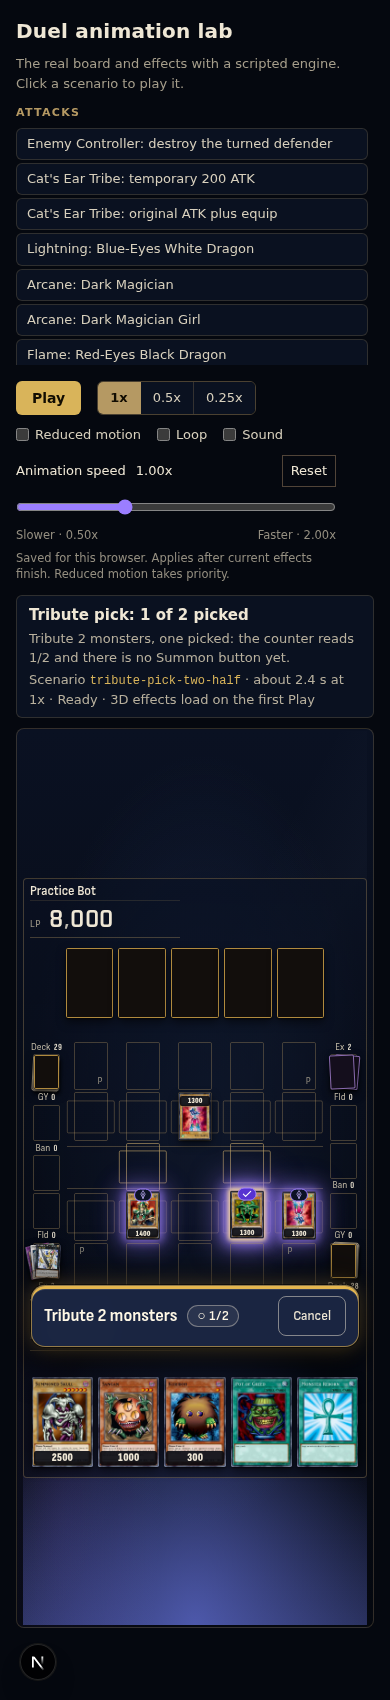
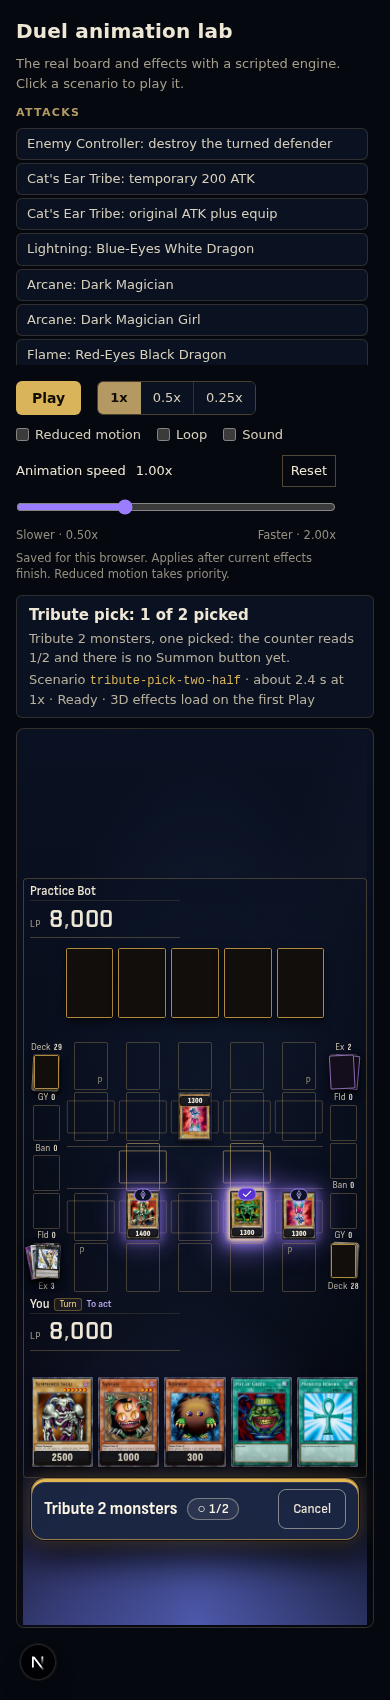
fix(web): keep the tribute dock off the seat plates and their turn clock

Changed region(s): [[0.0615, 0.8418, 0.9231, 0.9353], [0.0615, 0.6859, 0.9231, 0.8106]]

diff --git a/packages/web/src/components/duel/tribute-dock-place.ts b/packages/web/src/components/duel/tribute-dock-place.ts
@@ -3,10 +3,13 @@
  *
  * Tributes are picked on the field, so the instruction ("Tribute 1 monster · 0/1", Summon, Cancel) docks by your
  * hand instead of covering the board:
- *   side    there is room right of your hand: the dock sits there, its bottom level with the hand, against the board edge
+ *   side    there is room right of your hand: the dock sits there, its bottom level with the hand, against the board
+ *           edge, narrowed to stop short of any seat plate (a plate shows the turn clock, so it stays uncovered)
  *   above   no room beside the hand: the row above the hand, against the right edge
  *   center  the 2v2 Rooftop (`centered`), or no room beside a centred, wide hand: the row above, centred
- *   full    a phone: the full width of the board, in the row above the hand
+ *   full    a phone: the full width of the board, in the row above the hand; just under the hand when a plate is in
+ *           that row
+ * The rows above the hand are checked against the plates too. If none is clear, the right-edge dock is lifted over them.
  * Pure geometry: the caller measures the DOM and passes rectangles in one coordinate space.
  */
 import type { BarRect } from "./select-bar-place";
@@ -32,39 +35,106 @@ export const DOCK_MAX_WIDTH = 380;
 export const DOCK_PHONE_WIDTH = 560;
 const DOCK_EDGE = 12;
 const DOCK_AIR = 8;
+/** What the dock measures when its size comes from its content (the above and centre rows). */
+const DOCK_EST_WIDTH = 320;
+const DOCK_EST_HEIGHT = 96;
+/** The full-width phone dock is one row: the title, the counter and the buttons. */
+const DOCK_FULL_HEIGHT = 64;
+const PLATE_GAP = 6;
 
 function valid(rect: BarRect | null | undefined): rect is BarRect {
   return rect != null && rect.right > rect.left && rect.bottom > rect.top;
 }
 
-export function placeTributeDock({ board, hand, centered = false }: { board: BarRect; hand: BarRect | null; centered?: boolean }): DockPlace {
+function overlapsX(a: BarRect, left: number, right: number): boolean {
+  return a.left < right && a.right > left;
+}
+
+function overlapsY(a: BarRect, top: number, bottom: number): boolean {
+  return a.top < bottom && a.bottom > top;
+}
+
+/**
+ * `plates` are the seat and life-point plates in the same coordinate space as `board` and `hand`.
+ */
+export function placeTributeDock({
+  board,
+  hand,
+  centered = false,
+  plates = [],
+}: {
+  board: BarRect;
+  hand: BarRect | null;
+  centered?: boolean;
+  plates?: readonly BarRect[];
+}): DockPlace {
   const width = board.right - board.left;
   const height = board.bottom - board.top;
   const own = valid(hand) ? hand : null;
   const above = own ? Math.max(DOCK_AIR, Math.round(board.bottom - own.top + DOCK_AIR)) : DOCK_EDGE;
   const bottom = Math.min(above, Math.max(DOCK_AIR, height - 60));
-  if (width < DOCK_PHONE_WIDTH) return { mode: "full", left: null, top: null, bottom, width: null };
+  const solid = plates.filter(valid);
+  /** The plates a dock of this footprint would cover. Its bottom edge is `bottomPx` above the board's bottom edge. */
+  const blockers = (left: number, right: number, bottomPx: number, heightPx = DOCK_EST_HEIGHT): BarRect[] => {
+    const dockBottom = board.bottom - bottomPx;
+    return solid.filter(
+      (plate) => overlapsX(plate, left - PLATE_GAP, right + PLATE_GAP) && overlapsY(plate, dockBottom - heightPx - PLATE_GAP, dockBottom + PLATE_GAP),
+    );
+  };
+  /** The bottom edge that lifts a dock of this footprint just over the plates it would cover. */
+  const liftOver = (left: number, right: number, heightPx = DOCK_EST_HEIGHT): number =>
+    Math.min(
+      blockers(left, right, bottom, heightPx).reduce((most, plate) => Math.max(most, Math.round(board.bottom - plate.top + DOCK_AIR)), bottom),
+      Math.max(DOCK_AIR, height - 60),
+    );
+  if (width < DOCK_PHONE_WIDTH) {
+    // The row above the hand, else the strip just under it, else lifted over the plates in the way.
+    if (blockers(board.left, board.right, bottom, DOCK_FULL_HEIGHT).length === 0) return { mode: "full", left: null, top: null, bottom, width: null };
+    if (own) {
+      const below = Math.round(board.bottom - own.bottom - DOCK_AIR - DOCK_FULL_HEIGHT);
+      if (below >= DOCK_AIR && blockers(board.left, board.right, below, DOCK_FULL_HEIGHT).length === 0) return { mode: "full", left: null, top: null, bottom: below, width: null };
+    }
+    return { mode: "full", left: null, top: null, bottom: liftOver(board.left, board.right, DOCK_FULL_HEIGHT), width: null };
+  }
   if (!own) return { mode: "center", left: null, top: null, bottom: DOCK_EDGE, width: null };
 
-  // The 2v2 Rooftop keeps the dock over the middle of the row above the hand, where the seat plates leave room.
-  if (centered) return { mode: "center", left: null, top: null, bottom, width: null };
+  const rowFootprint = (mode: "above" | "center"): [number, number] => {
+    const left = mode === "above" ? board.right - DOCK_EDGE - DOCK_EST_WIDTH : (board.left + board.right) / 2 - DOCK_EST_WIDTH / 2;
+    return [left, left + DOCK_EST_WIDTH];
+  };
 
-  const room = board.right - own.right - 2 * DOCK_EDGE;
-  if (room >= DOCK_MIN_WIDTH) {
-    const dock = Math.min(room, DOCK_MAX_WIDTH);
-    return {
-      mode: "side",
-      left: Math.round(board.right - DOCK_EDGE - dock - board.left),
-      top: null,
-      // Bottom edges level with the hand's, so a dock that wraps to a second row grows upward, off the board's edge.
-      bottom: Math.max(DOCK_AIR, Math.round(board.bottom - own.bottom)),
-      width: Math.round(dock),
-    };
+  // The 2v2 Rooftop keeps the dock over the middle of the row above the hand, where the seat plates leave room.
+  if (!centered) {
+    const sideBottom = Math.max(DOCK_AIR, Math.round(board.bottom - own.bottom));
+    let lo = own.right + DOCK_EDGE;
+    let hi = board.right - DOCK_EDGE;
+    if (hi - lo >= DOCK_MIN_WIDTH) {
+      // A plate in the way takes the room on its side of the strip beside the hand.
+      for (const plate of blockers(lo, hi, sideBottom)) {
+        if ((plate.left + plate.right) / 2 > (lo + hi) / 2) hi = Math.min(hi, plate.left - PLATE_GAP);
+        else lo = Math.max(lo, plate.right + PLATE_GAP);
+      }
+      const room = hi - lo;
+      if (room >= DOCK_MIN_WIDTH) {
+        const dock = Math.min(room, DOCK_MAX_WIDTH);
+        // Bottom edges level with the hand's, so a dock that wraps to a second row grows upward, off the board's edge.
+        return { mode: "side", left: Math.round(hi - dock - board.left), top: null, bottom: sideBottom, width: Math.round(dock) };
+      }
+    }
   }
+
   const handMiddle = (own.left + own.right) / 2;
   const boardMiddle = (board.left + board.right) / 2;
-  const centred = Math.abs(handMiddle - boardMiddle) <= width * 0.12 && own.right - own.left >= width * 0.55;
-  return { mode: centred ? "center" : "above", left: null, top: null, bottom, width: null };
+  const handCentred = Math.abs(handMiddle - boardMiddle) <= width * 0.12 && own.right - own.left >= width * 0.55;
+  const order: Array<"above" | "center"> = centered || handCentred ? ["center", "above"] : ["above", "center"];
+  for (const mode of order) {
+    const [left, right] = rowFootprint(mode);
+    if (blockers(left, right, bottom).length === 0) return { mode, left: null, top: null, bottom, width: null };
+  }
+
+  // Nothing is clear: lift the right-edge dock over the plates in its way.
+  const [left, right] = rowFootprint("above");
+  return { mode: "above", left: null, top: null, bottom: liftOver(left, right), width: null };
 }
 
 export function sameDock(a: DockPlace, b: DockPlace): boolean {

diff --git a/packages/web/tests/components/tribute-pick.test.ts b/packages/web/tests/components/tribute-pick.test.ts
@@ -230,10 +230,56 @@ describe("placeTributeDock", () => {
     expect(place.bottom).toBe(900 - 760 + 8);
   });
 
+  it("narrows the side dock to stop short of a seat plate beside the hand", () => {
+    const board = rect(0, 0, 1440, 900);
+    const plate = rect(1250, 700, 1420, 820);
+    const place = placeTributeDock({ board, hand: rect(300, 760, 900, 880), plates: [plate] });
+    expect(place.mode).toBe("side");
+    expect(place.left! + place.width!).toBeLessThanOrEqual(plate.left);
+    expect(place.width!).toBeGreaterThanOrEqual(260);
+  });
+
+  it("ignores a plate that is nowhere near the dock", () => {
+    const board = rect(0, 0, 1440, 900);
+    const alone = placeTributeDock({ board, hand: rect(300, 760, 900, 880) });
+    const far = placeTributeDock({ board, hand: rect(300, 760, 900, 880), plates: [rect(40, 20, 300, 120), rect(40, 780, 280, 880)] });
+    expect(far).toEqual(alone);
+  });
+
+  it("leaves the side for a row clear of the plates when the plate leaves under the minimum width", () => {
+    const board = rect(0, 0, 1440, 900);
+    const plate = rect(1100, 700, 1420, 820);
+    const place = placeTributeDock({ board, hand: rect(300, 760, 900, 880), plates: [plate] });
+    expect(place.mode).toBe("center");
+    expect(place.bottom).toBe(900 - 760 + 8);
+  });
+
+  it("lifts the above row over the plates when no row beside or above the hand is clear", () => {
+    const board = rect(0, 0, 1440, 900);
+    const plates = [rect(1100, 700, 1420, 820), rect(540, 700, 900, 820)];
+    const place = placeTributeDock({ board, hand: rect(300, 760, 900, 880), plates });
+    expect(place.mode).toBe("above");
+    expect(place.bottom).toBe(900 - 700 + 8);
+  });
+
   it("takes the full width on a phone", () => {
     const place = placeTributeDock({ board: rect(0, 0, 390, 700), hand: rect(10, 600, 380, 690) });
     expect(place.mode).toBe("full");
     expect(place.bottom).toBe(108);
+  });
+
+  it("drops the phone dock below the hand when a plate sits in the row above it", () => {
+    const place = placeTributeDock({ board: rect(0, 0, 390, 800), hand: rect(10, 500, 380, 580), plates: [rect(300, 430, 382, 490)] });
+    expect(place.mode).toBe("full");
+    // Its top edge sits just under the hand: the bottom edge is the board's, less the hand's bottom, less the dock.
+    expect(place.bottom).toBeLessThan(800 - 580);
+    expect(place.bottom).toBeGreaterThan(8);
+  });
+
+  it("lifts the phone dock over a plate when there is no room below the hand either", () => {
+    const place = placeTributeDock({ board: rect(0, 0, 390, 700), hand: rect(10, 600, 380, 690), plates: [rect(300, 520, 382, 580)] });
+    expect(place.mode).toBe("full");
+    expect(place.bottom).toBe(700 - 520 + 8);
   });
 
   it("falls back to a centred dock when the hand cannot be measured", () => {

diff --git a/packages/web/src/components/duel/prompt-center.tsx b/packages/web/src/components/duel/prompt-center.tsx
@@ -1346,7 +1346,10 @@ export function PromptCenter(props: PromptCenterProps) {
           bottom: Math.max(...cardRects.map((r) => r.bottom)),
         };
       }
-      const place = placeTributeDock({ board: rectOf(board), hand: handRect, centered: board.closest('[data-table-stage="tag"]') != null });
+      // The seat plates carry the LP and the turn clock: the dock keeps off them. `[data-holo]` is the table shell's
+      // plate, `[data-team-plate]` the Rooftop's, `[data-lp-seat]` the 1v1 room's tally (and the chips inside the others).
+      const plates = Array.from(board.querySelectorAll<HTMLElement>("[data-holo], [data-team-plate], [data-lp-seat]")).map(rectOf);
+      const place = placeTributeDock({ board: rectOf(board), hand: handRect, centered: board.closest('[data-table-stage="tag"]') != null, plates });
       setDockPlace((current) => (sameDock(current, place) ? current : place));
       return;
     }
